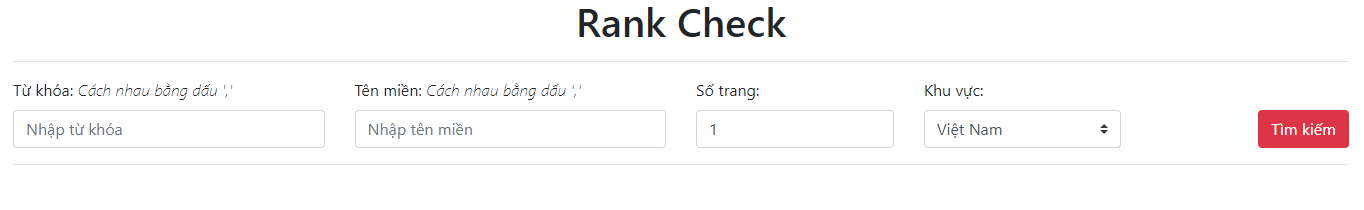
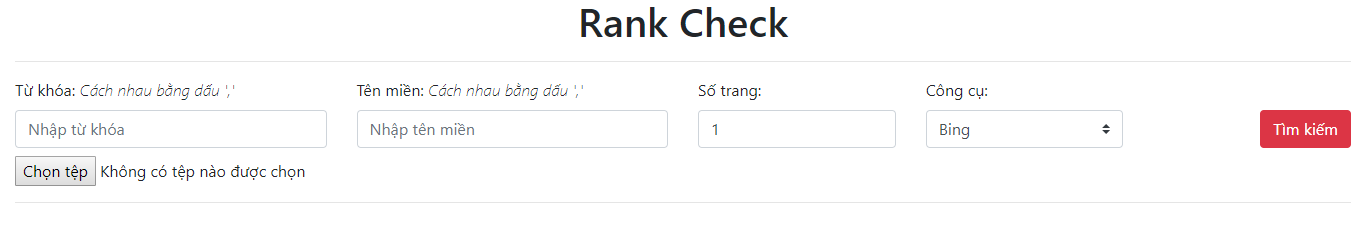
update docs

diff --git a/rankCheck/items.py b/rankCheck/items.py
@@ -7,16 +7,6 @@
 
 from scrapy import Item, Field
 
-class RankcheckItem(Item):
-    keyId = Field()
-    url = Field()
-    domain = Field()
-    position = Field()
-    page = Field()
-    rank = Field()
-    date = Field()
-    searchId = Field()
-
 class GetrankItem(Item):
     keyword = Field()
     url = Field()

diff --git a/README.md b/README.md
@@ -1,12 +1,8 @@
 # Rank Check
-Kiểm tra thứ hạng từ khóa bằng việc thu thập kết quả của [Google](https://www.google.com) và [Bing](https://www.bing.com). Công cụ này được viết dựa trên [Scrapy](https://scrapy.org) và [PHP](http://www.php.net). Có 2 phiên bản dành cho giao diện web và command line để kết nối lưu dữ liệu trực tiếp lên [MySQL](https://www.mysql.com) database.
-
-## Update
-### Ngày 06/08/2018
-- Cho phép Giao diện web kết nối database để cập nhật kết quả crawl về.
-- Tạo thêm bảng [rankcrawl](https://github.com/npthinh1996/rankcheck/blob/dc7a323ed352fa06aaa7557be270856318bcb3ba/create.sql#L27) để lưu dữ liệu.
+Kiểm tra thứ hạng từ khóa bằng việc thu thập kết quả của [Google](https://www.google.com) và [Bing](https://www.bing.com). Công cụ này được viết dựa trên [Scrapy](https://scrapy.org) và [PHP](http://www.php.net) có hỗ trợ lưu dữ liệu trực tiếp lên [MySQL](https://www.mysql.com) database.
 
 ## Tùy chỉnh
+
 ### Yêu cầu
 - [Python 3](https://www.python.org)
 - [Scrapy](https://scrapy.org)
@@ -35,7 +31,7 @@ $ cd rankcheck
 ```
 
 ### Proxy
-Mặc định proxy được tắt, để sử dụng cần phải bỏ comment mục Middlewares tại [setting.py](https://github.com/npthinh1996/rankcheck/blob/14df0a686f3437913299765a85e1bacbe6acf18f/rankCheck/settings.py#L50), code quản lý proxy tại hàm [process_request](https://github.com/npthinh1996/rankcheck/blob/14df0a686f3437913299765a85e1bacbe6acf18f/rankCheck/middlewares.py#L71) và cập nhật lại list proxy tại [proxy.txt](https://github.com/npthinh1996/rankcheck/blob/master/proxy.txt) theo format:
+Mặc định proxy được tắt, để sử dụng cần phải bỏ comment mục Middlewares tại [setting.py](https://github.com/npthinh1996/rankcheck/blob/437fb2c8ec1c7ce2c7424dca8798c353271f6474/rankCheck/settings.py#L55), code quản lý proxy tại hàm [process_request](https://github.com/npthinh1996/rankcheck/blob/437fb2c8ec1c7ce2c7424dca8798c353271f6474/rankCheck/middlewares.py#L71) và cập nhật lại list proxy tại [proxy.txt](https://github.com/npthinh1996/rankcheck/blob/master/proxy.txt) theo format:
 >IP1:PORT1
 >
 >IP2:PORT2
@@ -48,19 +44,20 @@ Có thể sử dụng smart proxy bằng tool trả phí [Crawlera](https://scra
 ```sh
 $ scrapy crawl proxyTest --nolog
 ```
-Kết quả trả về là IP phân tích từ trang [whatismyipaddress](https://whatismyipaddress.com).
+Kết quả trả về là IP4, IP6 và Region phân tích từ trang [whatismyipaddress](https://whatismyipaddress.com).
 
-## Phiên bản Web
-Cho phép người dùng nhập `Từ khóa`, `Tên miền`, chọn `Số trang` và `Khu vực` để thu thập kết quả thứ hạng từ khóa.
+## Giao diện
+Cho phép người dùng nhập `Từ khóa`, `Tên miền`, chọn `Số trang` và `Công cụ` để thu thập kết quả thứ hạng từ khóa.
+
+Người dùng có thể import danh sách keyword bằng file `.csv`, chương trình sẽ ưu tiên chọn keyword từ file (nếu có) để crawl kết quả.
 
 ### Tùy chỉnh
-- Bỏ comment tại file [settings.py](https://github.com/npthinh1996/rankcheck/blob/dc7a323ed352fa06aaa7557be270856318bcb3ba/rankCheck/settings.py#L69) để cập nhật tự động kết quả crawl được lên database.
-- Do trong quá trình chạy, tool có tạo thêm file tạm nên cần phải thiết lập lại permission cho thư mục `rankcheck` có quyền được ghi dữ liệu:
+- Bỏ comment tại file [settings.py](https://github.com/npthinh1996/rankcheck/blob/437fb2c8ec1c7ce2c7424dca8798c353271f6474/rankCheck/settings.py#L67) để cập nhật tự động kết quả crawl được lên database.
+- Đổi tên file [pipelines.example.py](https://github.com/npthinh1996/rankcheck/blob/master/rankCheck/pipelines.example.py) thành `pipelines.py` và tùy chỉnh lại kết nối đến database.
+- Do trong quá trình chạy, tool có tạo thêm file tạm nên cần phải thiết lập lại permission cho thư mục `rankcheck/tmp` có quyền được tạo mới file:
 ```sh
-$ sudo chmod 777 rankcheck
+$ sudo chmod 757 rankcheck/tmp
 ```
-- Để tránh việc ban IP nên theo mặc định, tool sẽ crawl kết quả từ trang [Bing](https://www.bing.com), để chuyển sang [Google](https://www.google.com) thì sửa lại code ở file [index.php](https://github.com/npthinh1996/rankcheck/blob/14df0a686f3437913299765a85e1bacbe6acf18f/index.php#L76).
-- Sửa lại lệnh system trong file [index.php](https://github.com/npthinh1996/rankcheck/blob/14df0a686f3437913299765a85e1bacbe6acf18f/index.php#L103) để tool hoạt động trên Linux *(mặc định là Windows)*.
 
 ### Giao diện
 Theo mặc định, web sẽ chạy theo đường dẫn `${yourdomain}`/index.php.
@@ -71,48 +68,24 @@ Trang chủ:
 Seach từ khóa:
 ![search.png](images/search.png)
 
-Search nhiều từ khóa và có tên miền:
-![mulsearch.png](images/mulsearch.png)
-
-## Phiên bản Command line
-Được thiết kể để thu thập nhiều từ khóa và lưu trữ dữ liệu trực tiếp lên database.
-
-### Tùy chỉnh
-- Cập nhật lại kết nối đến database tại những file: [impKey.example.py](https://github.com/npthinh1996/rankcheck/blob/14df0a686f3437913299765a85e1bacbe6acf18f/impKey.example.py#L6), [pipelines.example.py](https://github.com/npthinh1996/rankcheck/blob/14df0a686f3437913299765a85e1bacbe6acf18f/rankCheck/pipelines.example.py#L14), [rankBCheck.example.py](https://github.com/npthinh1996/rankcheck/blob/14df0a686f3437913299765a85e1bacbe6acf18f/rankCheck/spiders/rankBCheck.example.py#L15), [rankGCheck.example.py](https://github.com/npthinh1996/rankcheck/blob/14df0a686f3437913299765a85e1bacbe6acf18f/rankCheck/spiders/rankGCheck.example.py#L13), sau đó xóa đuôi `.example`.
-- Xóa comment mục Pipelines tại file [setting.py](https://github.com/npthinh1996/rankcheck/blob/d5636648b7e1c892464998e589bd110f88f9874e/rankCheck/settings.py#L68) để tool tự động cập nhật database mỗi khi chạy crawl từ khóa.
-- Đặt lại `name` cho spider tại [rankBCheck.py](https://github.com/npthinh1996/rankcheck/blob/14df0a686f3437913299765a85e1bacbe6acf18f/rankCheck/spiders/rankBCheck.example.py#L11) và [rankGCheck.py](https://github.com/npthinh1996/rankcheck/blob/14df0a686f3437913299765a85e1bacbe6acf18f/rankCheck/spiders/rankGCheck.example.py#L9) dựa theo dòng comment được đặt ngay dưới.
-- Để thay đổi số trang cần lấy cho mỗi từ khóa thì sửa lại code tại [rankBCheck.py](https://github.com/npthinh1996/rankcheck/blob/14df0a686f3437913299765a85e1bacbe6acf18f/rankCheck/spiders/rankBCheck.example.py#L50) và [rankGCheck.py](https://github.com/npthinh1996/rankcheck/blob/14df0a686f3437913299765a85e1bacbe6acf18f/rankCheck/spiders/rankGCheck.example.py#L50) *(mặc định sẽ lấy 3 trang cho mỗi từ khóa)*.
+Search từ file `.csv`:
+![mulsearch.png](images/filesearch.png)
 
 ### Tạo database
 Import file [create.sql](https://github.com/npthinh1996/rankcheck/blob/master/create.sql) để tạo database, cấu trúc table:
-- keywords
 
-| id | keyword |
-| - | - |
-| | |
-- rankcheck
+- rankcrawl
 
-| keyId | url | domain | position | page | range | date | searchId |
-| - | - | - | - | - | - | - | - |
-| | | | | | | | |
+| keyword | url | domain | rank | date |
+| - | - | - | - | - |
+| | | | | |
 
-### Import từ khóa
-Chạy lệnh sau để import danh sách từ khóa từ file [key.txt](https://github.com/npthinh1996/rankcheck/blob/master/key.txt) lên database:
+Lệnh trên hosting:
+
 ```sh
-$ python3 impKey.py
+$ mysql -u root -p < create.sql
 ```
-
-### Crawl từ khóa
-Chạy lệnh sau để tiến hành crawl từ khóa từ table `keywords` trên database và tự động insert kết quả vào table `rankcheck`:
-- Kết quả từ [Bing](https://www.bing.com):
-```sh
-$ scrapy crawl rankBCheck
-```
-- Kết quả từ [Google](https://www.google.com):
-```sh
-$ scrapy crawl rankGCheck
-```
-Để xuất kết quả ra file `.json` thì thêm dòng `-o filename.json` sau mỗi lệnh.
+Sau đó nhập mật khẩu để hoàn tất tạo mới database.
 
 <hr>
 <b>© PT.9E</b>
